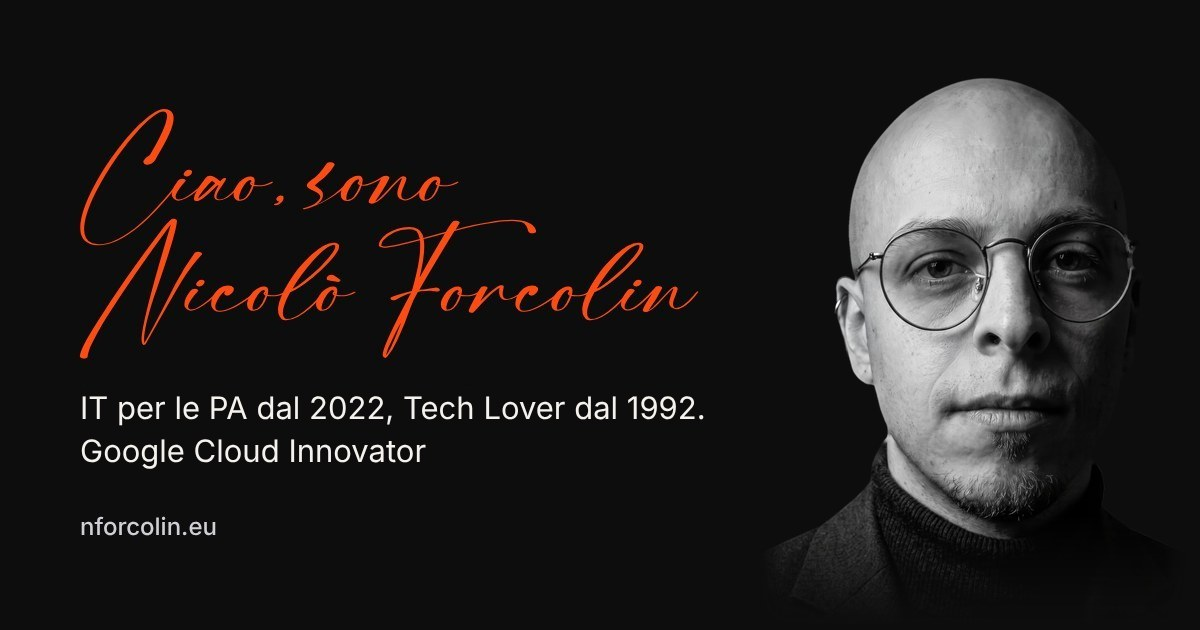
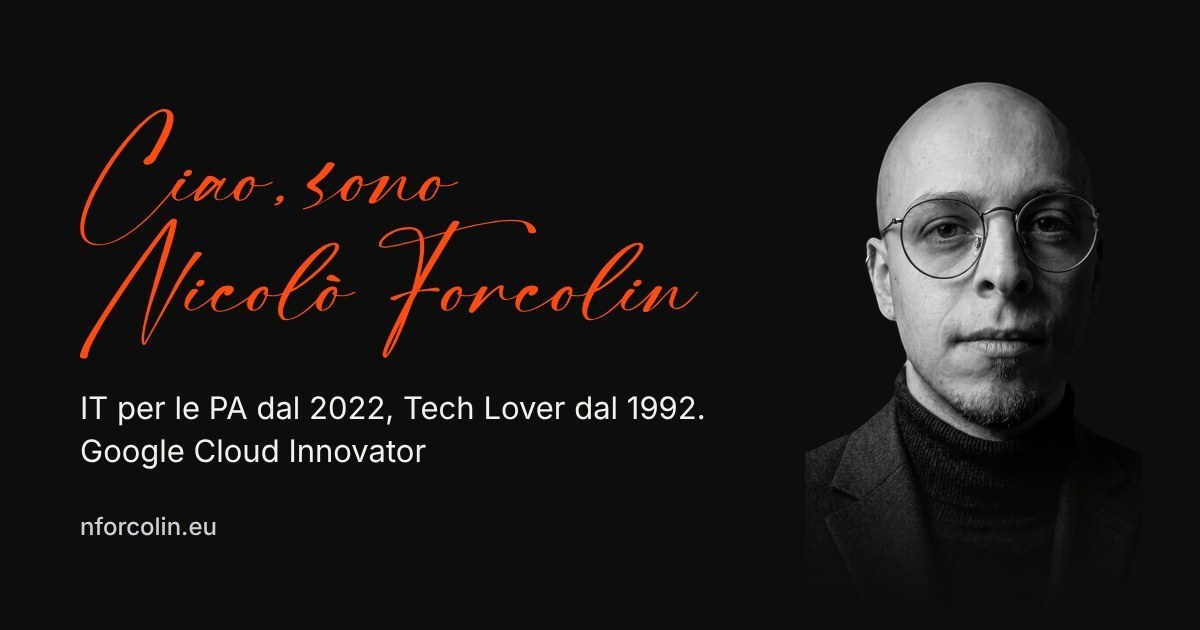
Ritratto ricomposto più largo, con sfumatura più morbida
- photo.webp: testa più piccola del 22%, spalle e giacca visibili, sfumatura ai lati e in basso più graduale (photo v43)
- Anteprima social della home rigenerata con la nuova composizione

Claude-Session: https://claude.ai/code/session_013V1PHsXmyXHJ8mUMRufPdc

Changed region(s): [[0.6475, 0.1206, 0.9558, 0.9048]]

diff --git a/tests/site-regression.test.js b/tests/site-regression.test.js
@@ -70,7 +70,7 @@ assert(home.includes('id="heroIntro"'), 'Hero intro paragraph missing');
 for (const language of ['it', 'en']) assert(dictionaries[language].includes('hero_intro:'), language + ': hero intro missing');
 assert(home.includes('data-i18n="skip_to_content"'), 'Skip link must be translated');
 assert(!home.includes('hero-cta-row'), 'The redundant hero links were removed');
-assert(home.includes('src="photo.webp?v=42"'), 'New portrait must be displayed');
+assert(home.includes('src="photo.webp?v=43"'), 'New portrait must be displayed');
 assert(home.includes('src="photo-entry-mobile.webp?v=9"') && fs.existsSync(path.join(root, 'photo-entry-mobile.webp')), 'The mobile entry screen uses the mobile portrait');
 assert(!home.includes('class="info-dialog"'), 'Project dialogs were replaced by pages');
 

diff --git a/index.html b/index.html
@@ -98,7 +98,7 @@
 
     </div>
     <div class="hero-photo-frame">
-      <img class="hero-portrait" id="avatarPhoto" src="photo.webp?v=42" alt="Nicolò Forcolin" width="1428" height="1900" fetchpriority="high">
+      <img class="hero-portrait" id="avatarPhoto" src="photo.webp?v=43" alt="Nicolò Forcolin" width="1428" height="1900" fetchpriority="high">
     </div>
   </div>
 </section>
